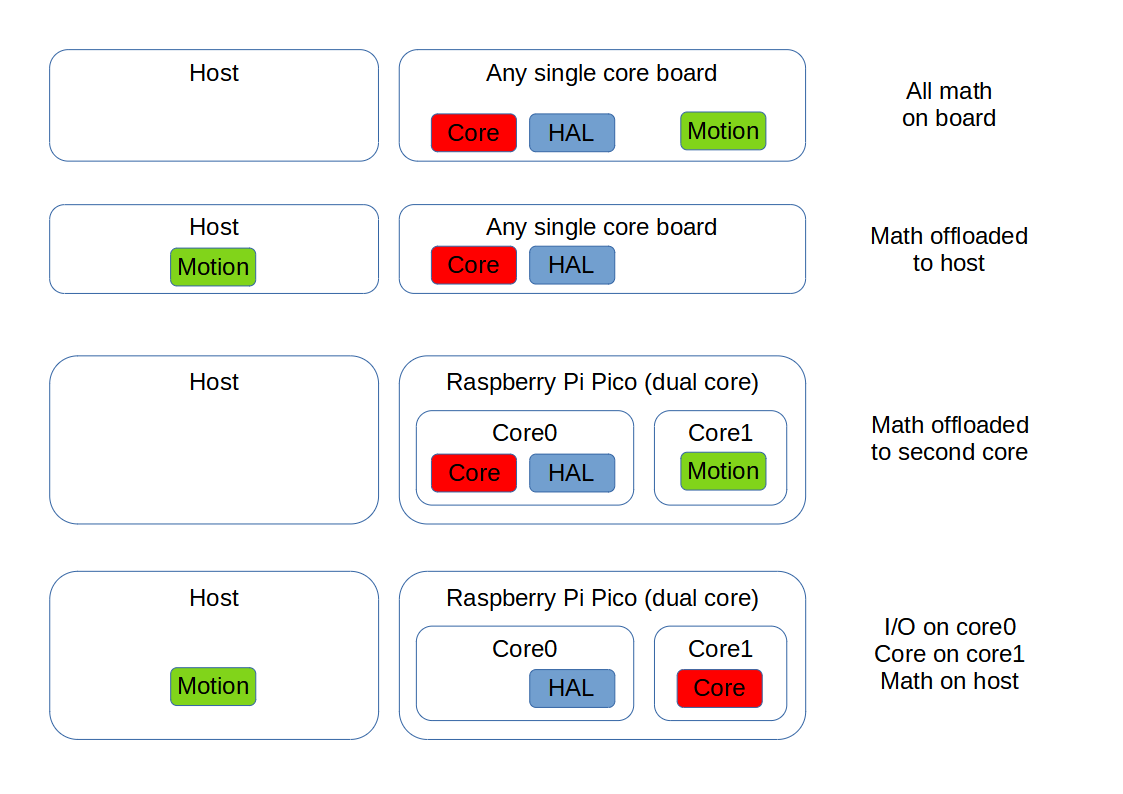
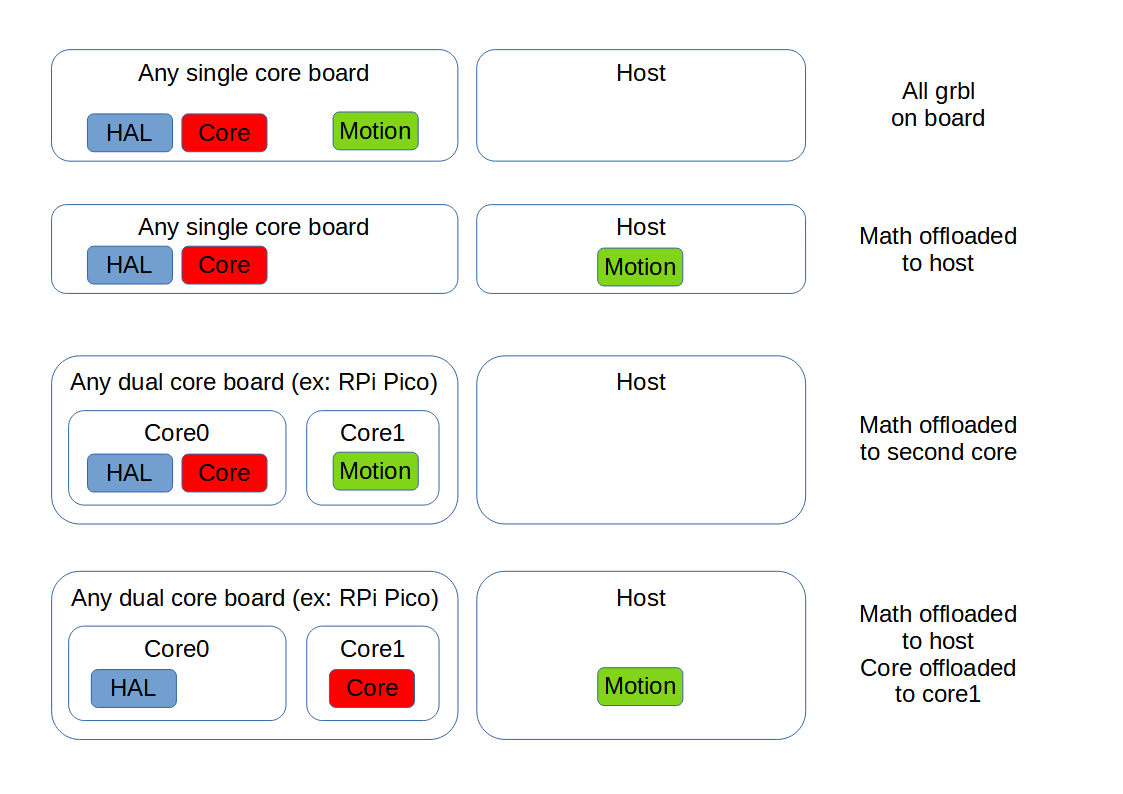
added motion_simple.{h|c}, grbl_motion_t global variable to be used in protocol.c

diff --git a/motion_simple.h b/motion_simple.h
@@ -1,0 +1,48 @@
+/*
+  motion_simple.h - Motion entry points structures and capabilities type
+
+  Part of grblHAL
+
+  Copyright (c) 2021 Anichang
+
+  Grbl is free software: you can redistribute it and/or modify
+  it under the terms of the GNU General Public License as published by
+  the Free Software Foundation, either version 3 of the License, or
+  (at your option) any later version.
+
+  Grbl is distributed in the hope that it will be useful,
+  but WITHOUT ANY WARRANTY; without even the implied warranty of
+  MERCHANTABILITY or FITNESS FOR A PARTICULAR PURPOSE.  See the
+  GNU General Public License for more details.
+
+  You should have received a copy of the GNU General Public License
+  along with Grbl.  If not, see <http://www.gnu.org/licenses/>.
+*/
+
+/*! \file
+    \brief Motion function pointers and data structures definitions.
+*/
+
+#ifndef _MOTION_H_
+#define _MOTION_H_
+
+#include "grbl.h"
+
+#define MOTION_VERSION 1
+
+typedef struct {
+    /*! \brief Execute one motion block (gcode or raw steps).
+
+    For single core boards without host offloading it is set to gc_execute_block().
+    On multicore boards or offloading motion to host, it is set to simple_execute_block().
+    \returns current parser status.
+    */
+    status_code_t (*protocol_execute_block)(char *block, char *message);
+} grbl_motion_t;
+
+extern grbl_motion_t motion; //!< Global Motion struct.
+
+// Execute one block of simple raw steps
+status_code_t simple_execute_block (char *block, char *message);
+
+#endif

diff --git a/grbllib.c b/grbllib.c
@@ -34,6 +34,8 @@
 #include "report.h"
 #include "state_machine.h"
 #include "nvs_buffer.h"
+#include "motion_simple.h"
+#include "gcode.h"
 #ifdef ENABLE_BACKLASH_COMPENSATION
 #include "motion_control.h"
 #endif
@@ -52,6 +54,7 @@
 struct system sys = {0}; //!< System global variable structure.
 grbl_t grbl;
 grbl_hal_t hal;
+grbl_motion_t motion;
 
 // called from stream drivers while tx is blocking, return false to terminate
 
@@ -125,9 +128,21 @@ int grbl_enter (void)
     hal.stream.enqueue_realtime_command = protocol_enqueue_realtime_command;
     hal.limits.interrupt_callback = limit_interrupt_handler;
     hal.control.interrupt_callback = control_interrupt_handler;
+#if 1 // TODO need a definition for motion_simple
     hal.stepper.interrupt_callback = stepper_driver_interrupt_handler;
+#else
+    hal.stepper.interrupt_callback = simple_driver_interrupt_handler;
+#endif
     hal.stream_blocking_callback = stream_tx_blocking;
     hal.signals_cap.reset = hal.signals_cap.feed_hold = hal.signals_cap.cycle_start = On;
+
+    // Clear all and set some Motion function pointers
+    memset(&motion, 0, sizeof(grbl_motion_t));
+#if 1 // TODO need a definition for motion_simple
+    motion.protocol_execute_block = gc_execute_block;
+#else
+    motion.protocol_execute_block = simple_execute_block;
+#endif
 
     sys.cold_start = true;
 

diff --git a/protocol.c b/protocol.c
@@ -223,7 +223,7 @@ bool protocol_main_loop (void)
                 else { // Parse and execute g-code block.
 
 #endif
-                    gc_state.last_error = gc_execute_block(line, user_message.show ? user_message.message : NULL);
+                    gc_state.last_error = motion.protocol_execute_block(line, user_message.show ? user_message.message : NULL);
                 }
 
                 // Add a short delay for each block processed in Check Mode to
@@ -316,8 +316,8 @@ bool protocol_main_loop (void)
                 system_execute_line(xcommand);
             else if (state_get() & (STATE_ALARM|STATE_ESTOP|STATE_JOG)) // Everything else is gcode. Block if in alarm, eStop or jog state.
                 grbl.report.status_message(Status_SystemGClock);
-            else // Parse and execute g-code block.
-                gc_execute_block(xcommand, NULL);
+            else // Parse and execute g-code block or raw steps block.
+                motion.protocol_execute_block(xcommand, NULL);
 
             xcommand[0] = '\0';
         }

diff --git a/motion_simple.c b/motion_simple.c
@@ -1,0 +1,10 @@
+#include "grbl.h"
+
+status_code_t simple_execute_block (char *block, char *message) {
+    // TODO store one block of raw steps in buffer
+}
+
+ISR_CODE void simple_driver_interrupt_handler (void)
+{
+    // TODO execute one block of raw steps
+}
